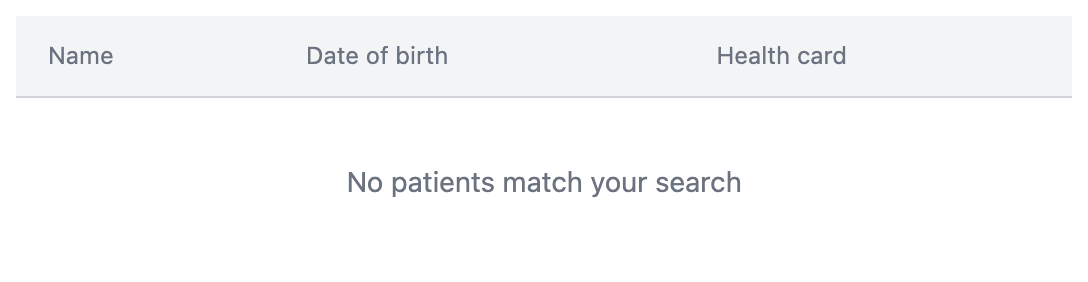
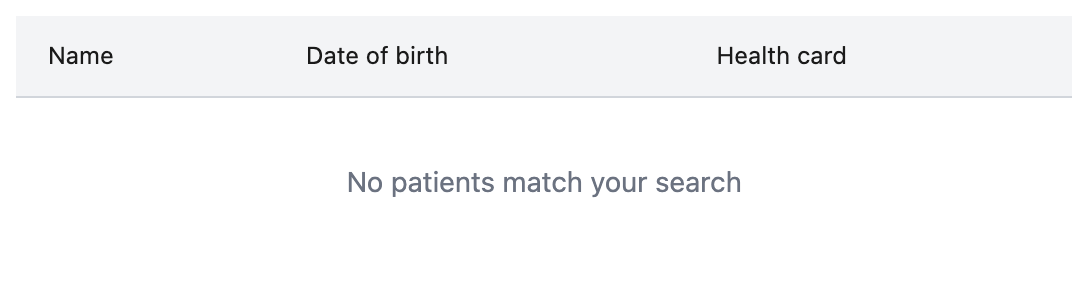
ui: meet WCAG AA contrast with the brief's own colours (T-9.2)
Three of the brief's colour pairings fail WCAG 2.2 AA contrast. The owner
chose to fix them with colours the brief already defines, leaving the
token values unchanged (D-19):
- table header text: color.text.muted → color.text (4.39:1 → 15.8:1,
  text needs 4.5:1);
- text input border: color.border → color.text.muted (1.47:1 → 4.83:1,
  a component boundary needs 3:1);
- focus ring on Button and table rows: the brief's 2px color.focus ring
  stays, with a 2px color.primary ring outside it (1.80:1 → 4.63:1).
  The rings are layered shadows; a transparent outline keeps a visible
  ring in forced-colors mode.

The state screenshots are re-captured.

Verified: in Chromium, the rendered header text, input border and
focus shadows are the expected colours, and the ratios above come from
them. npm test passes (ui 176, app 54).

Claude-Session: https://claude.ai/code/session_01CG19uXLFTaeBhQAszH7Hef

Changed region(s): [[0.6562, 0.1702, 0.7812, 0.227], [0.2812, 0.1702, 0.4062, 0.227], [0.0312, 0.1702, 0.125, 0.227]]

diff --git a/packages/ui/src/components/Table.module.css b/packages/ui/src/components/Table.module.css
@@ -9,7 +9,9 @@
 
 .headerCell {
   background: var(--ui-color-surface-subtle);
-  color: var(--ui-color-text-muted);
+  /* color.text, not the brief's color.text.muted: muted is 4.4:1 on this
+     background, under WCAG AA's 4.5:1 for text (D-19). */
+  color: var(--ui-color-text);
   font-size: var(--ui-font-label-size);
   line-height: var(--ui-font-label-line);
   font-weight: var(--ui-font-label-weight);
@@ -47,8 +49,17 @@
 }
 
 .rowButton:focus-visible {
-  outline: var(--ui-focus-ring-width) solid var(--ui-color-focus);
+  /* The brief's ring: 2px of color.focus, 2px out. On its own it is 1.8:1
+     against white, under WCAG AA's 3:1 for a focus indicator (D-19), so a
+     2px ring of color.primary (4.6:1) is drawn outside it. Shadows draw the
+     rings; the transparent outline keeps a visible ring in forced-colors
+     mode, which drops shadows. */
+  outline: var(--ui-focus-ring-width) solid transparent;
   outline-offset: var(--ui-focus-ring-offset);
+  box-shadow:
+    0 0 0 var(--ui-focus-ring-offset) var(--ui-color-surface),
+    0 0 0 calc(var(--ui-focus-ring-offset) + var(--ui-focus-ring-width)) var(--ui-color-focus),
+    0 0 0 calc(var(--ui-focus-ring-offset) + var(--ui-focus-ring-width) * 2) var(--ui-color-primary);
 }
 
 .empty {

diff --git a/packages/ui/src/components/Button.module.css b/packages/ui/src/components/Button.module.css
@@ -16,8 +16,17 @@
 }
 
 .button:focus-visible {
-  outline: var(--ui-focus-ring-width) solid var(--ui-color-focus);
+  /* The brief's ring: 2px of color.focus, 2px out. On its own it is 1.8:1
+     against white, under WCAG AA's 3:1 for a focus indicator (D-19), so a
+     2px ring of color.primary (4.6:1) is drawn outside it. Shadows draw the
+     rings; the transparent outline keeps a visible ring in forced-colors
+     mode, which drops shadows. */
+  outline: var(--ui-focus-ring-width) solid transparent;
   outline-offset: var(--ui-focus-ring-offset);
+  box-shadow:
+    0 0 0 var(--ui-focus-ring-offset) var(--ui-color-surface),
+    0 0 0 calc(var(--ui-focus-ring-offset) + var(--ui-focus-ring-width)) var(--ui-color-focus),
+    0 0 0 calc(var(--ui-focus-ring-offset) + var(--ui-focus-ring-width) * 2) var(--ui-color-primary);
 }
 
 /* Sizes */

diff --git a/packages/ui/src/components/TextField.module.css b/packages/ui/src/components/TextField.module.css
@@ -15,7 +15,10 @@
 /* 1px hairline border: the token sheet defines no border width. */
 .input {
   padding: var(--ui-space-2) var(--ui-space-3);
-  border: 1px solid var(--ui-color-border);
+  /* color.text.muted, not the brief's color.border: the border is what shows
+     where the field is, and color.border is 1.5:1 against white, under WCAG
+     AA's 3:1 for a component's boundary (D-19). */
+  border: 1px solid var(--ui-color-text-muted);
   border-radius: var(--ui-radius-sm);
   background: var(--ui-color-surface);
   color: var(--ui-color-text);

diff --git a/docs/DECISIONS.md b/docs/DECISIONS.md
@@ -314,3 +314,52 @@ query binding and serialisation), and tests against a running server on
 
 **What would change it.** A real database, at which point the factory would
 swap the data source for a test one.
+
+---
+
+## D-19 — Hosted as one container on Render's free tier
+
+**Decided:** 2026-09-29 · **Status:** settled
+
+A single Docker image: the API serves the built website at `/`, its own
+endpoints at `/api` and the Storybook docs at `/docs`. It runs as one free
+Render web service, described in `render.yaml`.
+
+**Why.** The owner asked for a free host for all three. The website calls
+`/api` on its own address, so serving both from one process needs no CORS
+and no change to the client. Render runs Docker images for free; the API
+needs .NET, which free static hosts cannot run.
+
+**Considered.** A static host (Netlify, Cloudflare Pages) for the site and
+docs, forwarding `/api` to an API hosted elsewhere: two services to run.
+Azure App Service: more setup, and billing. Fly.io and Railway: no longer
+free.
+
+**What would change it.** Needing the API awake at all times. The free
+service sleeps after 15 minutes idle, and the next visit takes about a
+minute to wake it.
+
+---
+
+## D-19 — Three colours depart from the brief to meet WCAG 2.2 AA
+
+**Decided:** 2026-09-29 · **Status:** settled (owner's choice, grilling Q16)
+
+The owner asked for the components to meet WCAG 2.2 AA. Three of the brief's
+colour pairings fail its contrast rules, so the components use other colours
+the brief already defines. The token values are unchanged.
+
+| Part | Brief | Measured | Now | Measured |
+| --- | --- | --- | --- | --- |
+| Table header text | color.text.muted on color.surface.subtle | 4.39:1 (text needs 4.5) | color.text | 15.8:1 |
+| Text input border | color.border on white | 1.47:1 (needs 3) | color.text.muted | 4.83:1 |
+| Focus ring (Button, table rows) | 2px color.focus, 2px offset | 1.80:1 (needs 3) | the same ring, plus a 2px color.primary ring outside it | 4.63:1 |
+
+**Why.** It meets the standard without changing the token sheet, which the
+brief defines exactly, and each change is small and visible in one place.
+
+**Considered.** Changing the token values (compliant, but it rewrites the
+brief's most explicit table and moves every component), and keeping the brief
+exactly with the three documented as exceptions (does not meet the standard).
+
+**What would change it.** A revised token sheet whose values pass on their own.
